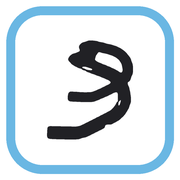
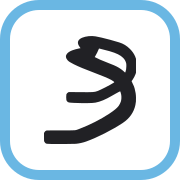
0.20.x: ikone in OG slika iz novega logotipa - ostre ikone iz vektorja namesto povecanega 200 px PNG (naloga 26)
Claude-Session: https://claude.ai/code/session_01JeY29MzVMzrBeDXv4VrFU4

diff --git a/orodja/ikone/README.md b/orodja/ikone/README.md
@@ -1,0 +1,12 @@
+# Izvorni vektorji ikon in OG slike
+
+- `logo.svg` – logotip Belaunce (Kolesarsko društvo, Poljanska dolina), vektoriziran iz `belaunce_logo_NEW_XL.png` (3000 × 870).
+- `znak.svg` – samo znak »B« (balanca) iz istega logotipa; osnova za ikone aplikacije.
+
+Iz njiju so zgrajeni (naloga 26):
+- `paket/com_belauncerunde/media/images/icon-192.png`, `icon-512.png` – zaobljen kvadrat, bela podlaga, rob #6ab7e3, znak #212125 (~59 % višine)
+- `icon-maskable-512.png` – polna bela podlaga, krog #6ab7e3, znak v varni coni
+- `apple-touch-icon.png` (180 px) – polna bela podlaga (iOS sam zaobli vogale)
+- `og-runde.png` (1200 × 630) – logotip, RUNDE (Lexend 800), opis (Archivo), modra spodnja vrstica
+
+Barve in pisave po canvasu videza 0.19.0.
